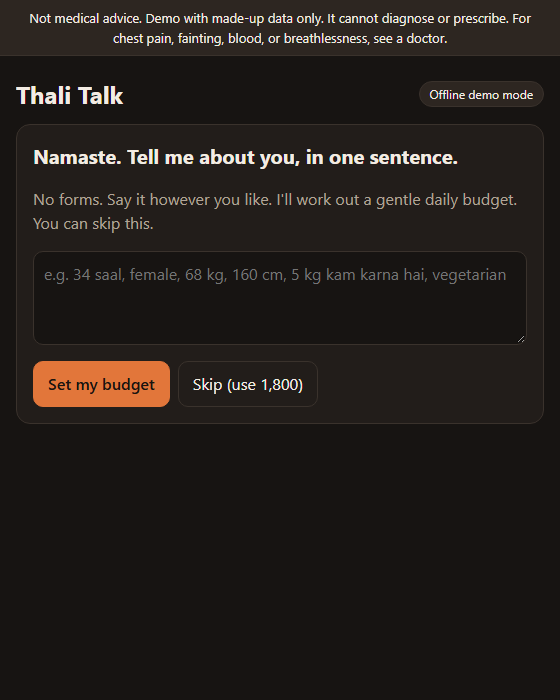
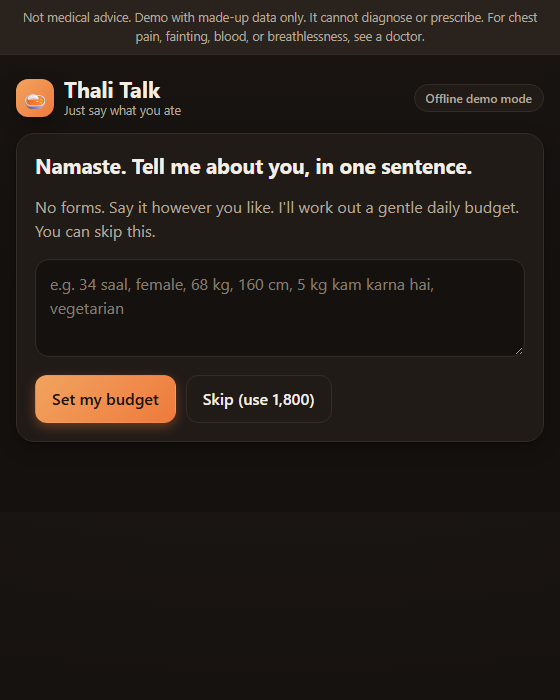
Redesign UI: branded header, hero Today card, refined cards, chips and buttons; refresh screenshots

diff --git a/public/style.css b/public/style.css
@@ -1,44 +1,88 @@
-:root{--bg:#faf6ef;--card:#fff;--ink:#2a2420;--muted:#6f655c;--line:#e9e0d3;--accent:#c2561f;--accent-ink:#fff;--ok:#2f7d4f;--soft:#f3e9da;--range:#e8b98f}
-@media (prefers-color-scheme:dark){:root{--bg:#171412;--card:#221d1a;--ink:#f3ece3;--muted:#b0a498;--line:#3a322c;--accent:#e2763a;--accent-ink:#1a1410;--ok:#6cc58c;--soft:#2d2621;--range:#7a4a2a}}
+:root{
+  --bg:#fbf7f1;--bg2:#f4ece0;--card:#ffffff;--ink:#2b2420;--muted:#74685d;--line:#ece3d6;
+  --accent:#d2571d;--accent2:#e8893f;--accent-ink:#fff;--ok:#2f7d4f;--soft:#faf1e4;--range:#f1c9a3;
+  --shadow:0 1px 2px rgba(60,40,20,.06),0 6px 18px rgba(60,40,20,.06);--r:18px
+}
+@media (prefers-color-scheme:dark){:root{
+  --bg:#15110f;--bg2:#1c1714;--card:#211b18;--ink:#f4ede4;--muted:#b4a89b;--line:#352c26;
+  --accent:#ee7a3c;--accent2:#f2a35f;--accent-ink:#1b1209;--ok:#6cc58c;--soft:#2a221d;--range:#7d4b2a;
+  --shadow:0 1px 2px rgba(0,0,0,.3),0 6px 18px rgba(0,0,0,.25)
+}}
 *{box-sizing:border-box}
-body{margin:0;background:var(--bg);color:var(--ink);font:16px/1.5 system-ui,-apple-system,"Segoe UI",Roboto,sans-serif}
-.notice{background:var(--soft);border-bottom:1px solid var(--line);padding:8px 16px;font-size:13px;text-align:center}
-.app{max-width:560px;margin:0 auto;padding:12px 16px 48px}
-.top{display:flex;align-items:center;justify-content:space-between;margin:8px 0 4px}
-h1{margin:0;font-size:24px}h2{margin:0 0 4px;font-size:20px}
-.card{background:var(--card);border:1px solid var(--line);border-radius:14px;padding:16px;margin:12px 0}
-.label{font-size:13px;text-transform:uppercase;letter-spacing:.06em;color:var(--muted);margin-bottom:6px;display:block}
+html{-webkit-text-size-adjust:100%}
+body{margin:0;background:radial-gradient(1200px 500px at 50% -200px,var(--bg2),var(--bg));background-color:var(--bg);color:var(--ink);font:16px/1.5 "Inter",system-ui,-apple-system,"Segoe UI",Roboto,sans-serif}
+.notice{background:var(--soft);border-bottom:1px solid var(--line);padding:8px 16px;font-size:12.5px;text-align:center;color:var(--muted)}
+.app{max-width:560px;margin:0 auto;padding:8px 16px 56px}
+
+.top{display:flex;align-items:center;justify-content:space-between;margin:14px 0 6px}
+.brand{display:flex;align-items:center;gap:10px}
+.logo{width:38px;height:38px;border-radius:12px;display:grid;place-items:center;font-size:21px;background:linear-gradient(135deg,var(--accent2),var(--accent));box-shadow:var(--shadow)}
+h1{margin:0;font-size:22px;letter-spacing:-.01em;line-height:1.1}
+.tag-line{font-size:12.5px;color:var(--muted)}
+h2{margin:0 0 6px;font-size:21px;letter-spacing:-.01em;line-height:1.25}
+.badge{font-size:12px;font-weight:600;border:1px solid var(--line);border-radius:99px;padding:4px 11px;background:var(--card);color:var(--muted)}
+.badge.ai{border-color:var(--ok);color:var(--ok)}
+.badge.ai::before{content:"";display:inline-block;width:7px;height:7px;border-radius:50%;background:var(--ok);margin-right:6px}
+
+.card{background:var(--card);border:1px solid var(--line);border-radius:var(--r);padding:18px;margin:14px 0;box-shadow:var(--shadow)}
+.label{font-size:12px;font-weight:600;text-transform:uppercase;letter-spacing:.08em;color:var(--muted);margin-bottom:8px;display:block}
 .muted{color:var(--muted)}.small-text{font-size:13px}
 .hidden{display:none!important}
-.big{font-size:30px;font-weight:700}
-.row{display:flex;gap:8px;align-items:center;margin-top:10px}.between{justify-content:space-between;margin-top:0}.grow{flex:1}
-textarea{width:100%;font:inherit;color:inherit;background:var(--bg);border:1px solid var(--line);border-radius:10px;padding:10px;resize:vertical}
-textarea:focus-visible,button:focus-visible{outline:3px solid var(--accent);outline-offset:2px}
-button{font:inherit;border-radius:10px;border:1px solid var(--line);padding:10px 14px;background:var(--card);color:var(--ink);cursor:pointer;min-height:44px}
-button.primary{background:var(--accent);color:var(--accent-ink);border-color:var(--accent);font-weight:600}
-button.ghost{background:transparent}button.small{min-height:36px;padding:6px 10px;font-size:14px}
+
+/* Today hero */
+.today{background:linear-gradient(145deg,var(--card),var(--soft));}
+.big{font-size:38px;font-weight:800;letter-spacing:-.02em;font-variant-numeric:tabular-nums;line-height:1.05}
+.today .muted{font-size:15px}
+.bar{position:relative;height:16px;background:var(--bg2);border-radius:99px;overflow:hidden;margin:14px 0 8px;border:1px solid var(--line)}
+#barRange{position:absolute;top:0;bottom:0;background:var(--range);opacity:.85}
+#barFill{position:absolute;top:0;bottom:0;left:0;background:linear-gradient(90deg,var(--accent2),var(--accent));width:0;border-radius:99px;z-index:1;transition:width .5s ease}
+#budgetNote{margin:6px 0 0;font-size:14px}
+
+.row{display:flex;gap:10px;align-items:center;margin-top:12px}.between{justify-content:space-between;margin-top:0;align-items:flex-start}.grow{flex:1}
+textarea{width:100%;font:inherit;color:inherit;background:var(--bg);border:1.5px solid var(--line);border-radius:14px;padding:12px 14px;resize:vertical;min-height:72px}
+textarea::placeholder{color:var(--muted);opacity:.7}
+textarea:focus{border-color:var(--accent);outline:none;box-shadow:0 0 0 4px color-mix(in srgb,var(--accent) 18%,transparent)}
+button{font:inherit;font-weight:600;border-radius:12px;border:1px solid var(--line);padding:11px 16px;background:var(--card);color:var(--ink);cursor:pointer;min-height:46px;transition:transform .08s,box-shadow .15s,background .15s}
+button:hover{background:var(--soft)}button:active{transform:scale(.98)}
+button:focus-visible{outline:3px solid var(--accent);outline-offset:2px}
+button.primary{background:linear-gradient(135deg,var(--accent2),var(--accent));color:var(--accent-ink);border-color:transparent;box-shadow:0 4px 12px color-mix(in srgb,var(--accent) 35%,transparent)}
+button.primary:hover{filter:brightness(1.05)}
+button.ghost{background:transparent;font-weight:500}
+button.small{min-height:36px;padding:6px 12px;font-size:14px}
 button:disabled{opacity:.5;cursor:default}
-.badge{font-size:12px;border:1px solid var(--line);border-radius:99px;padding:3px 10px;background:var(--soft)}
-.badge.ai{border-color:var(--ok);color:var(--ok)}
-.chips{display:flex;flex-wrap:wrap;gap:6px;margin-top:8px}
-.chips button{min-height:32px;padding:4px 10px;font-size:13px;border-radius:99px}
-.bar{position:relative;height:14px;background:var(--soft);border-radius:99px;overflow:hidden;margin:10px 0 6px}
-#barRange{position:absolute;top:0;bottom:0;background:var(--range);opacity:.7}
-#barFill{position:absolute;top:0;bottom:0;left:0;background:var(--accent);width:0;border-radius:99px;z-index:1}
-.item{border-top:1px solid var(--line);padding:10px 0}.item:first-child{border-top:0}
-.item .name{font-weight:600}.item .kc{float:right;font-variant-numeric:tabular-nums}
-.tag{font-size:12px;padding:1px 8px;border-radius:99px;border:1px solid var(--line);margin-left:6px;color:var(--muted)}
+
+.chips{display:flex;gap:8px;margin-top:10px;overflow-x:auto;padding-bottom:4px;scrollbar-width:none;flex-wrap:nowrap}
+.chips::-webkit-scrollbar{display:none}
+.chips button{min-height:34px;padding:5px 13px;font-size:13px;font-weight:500;border-radius:99px;white-space:nowrap;flex:0 0 auto;background:var(--soft)}
+#result .chips{flex-wrap:wrap;overflow:visible}
+
+.checkin{border-color:var(--accent);background:linear-gradient(145deg,var(--card),var(--soft));padding:14px 16px 14px 48px;position:relative;font-weight:500}
+.checkin::before{content:"💬";position:absolute;left:14px;top:12px;font-size:22px}
+
+/* Meal result */
+#result{border-color:color-mix(in srgb,var(--accent) 45%,var(--line))}
+.item{border-top:1px solid var(--line);padding:12px 0}.item:first-of-type{border-top:0}
+.item .name{font-weight:700}.item .kc{float:right;font-weight:700;font-variant-numeric:tabular-nums}
+.tag{display:inline-block;font-size:11.5px;font-weight:600;padding:1px 9px;border-radius:99px;border:1px solid var(--line);margin-left:8px;color:var(--muted);vertical-align:1px}
 .tag.low{border-color:var(--accent);color:var(--accent)}
-.assume{font-size:13px;color:var(--muted)}
-.alert{border-left:4px solid var(--accent);background:var(--soft);padding:10px 12px;border-radius:8px;margin:8px 0}
-.checkin{border-color:var(--accent)}
-.log{list-style:none;padding:0;margin:0}.log li{display:flex;justify-content:space-between;gap:8px;padding:8px 0;border-top:1px solid var(--line)}
-.log li:first-child{border-top:0}.log .t{color:var(--muted);font-size:13px}
-.week{display:flex;gap:6px;align-items:flex-end;height:110px;position:relative;padding-bottom:18px}
+.assume{font-size:13px;color:var(--muted);margin-top:2px}
+.alert{border-left:4px solid var(--accent);background:var(--soft);padding:11px 14px;border-radius:10px;margin:10px 0;font-size:15px}
+#result p{margin:12px 0 4px;font-size:17px}
+
+.log{list-style:none;padding:0;margin:0}
+.log li{display:flex;justify-content:space-between;align-items:center;gap:10px;padding:12px 0;border-top:1px solid var(--line)}
+.log li:first-child{border-top:0;padding-top:2px}
+.log .t{color:var(--muted);font-size:12.5px;font-weight:600}.log .d{font-size:15px}
+.log li>div:last-child{text-align:right;font-weight:700;white-space:nowrap}
+.log li button{display:block;margin:4px 0 0 auto;min-height:30px;padding:2px 8px;font-size:12px;font-weight:500}
+
+.week{display:flex;gap:8px;align-items:flex-end;height:120px;position:relative;padding-bottom:20px;margin-top:6px}
 .week .d{flex:1;position:relative;height:100%;display:flex;align-items:flex-end;justify-content:center}
-.week .b{width:100%;background:var(--accent);border-radius:6px 6px 0 0;min-height:2px}
+.week .b{width:100%;background:linear-gradient(180deg,var(--accent2),var(--accent));border-radius:8px 8px 3px 3px;min-height:3px;transition:height .4s ease}
 .week .b.none{background:var(--line)}
-.week .lbl{position:absolute;bottom:-18px;font-size:11px;color:var(--muted)}
-.week .base{position:absolute;left:0;right:0;border-top:2px dashed var(--muted);opacity:.6;z-index:1}
-.foot{text-align:center;margin-top:20px}.foot .small{margin:2px}
-@media (max-width:380px){.big{font-size:26px}}
+.week .lbl{position:absolute;bottom:-20px;font-size:11.5px;color:var(--muted);font-weight:600}
+.week .base{position:absolute;left:0;right:0;border-top:2px dashed var(--muted);opacity:.55;z-index:1;pointer-events:none}
+
+.foot{text-align:center;margin-top:22px}.foot .small{margin:3px}
+@media (max-width:380px){.big{font-size:30px}h1{font-size:20px}}
+@media (prefers-reduced-motion:reduce){*{transition:none!important}}

diff --git a/public/index.html b/public/index.html
@@ -12,7 +12,10 @@
 
 <main class="app">
   <header class="top">
-    <h1>Thali Talk</h1>
+    <div class="brand">
+      <div class="logo" aria-hidden="true">🍛</div>
+      <div><h1>Thali Talk</h1><div class="tag-line">Just say what you ate</div></div>
+    </div>
     <span id="mode" class="badge" title="Whether the AI or the offline fallback is answering">checking…</span>
   </header>
 
